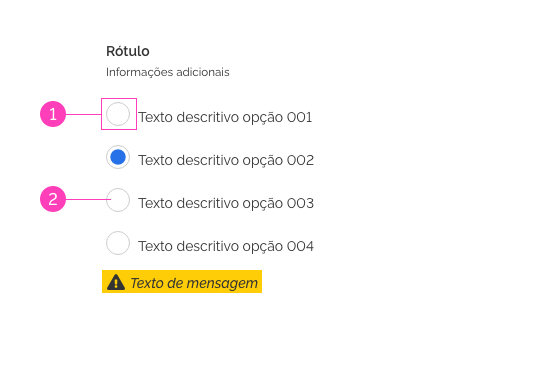
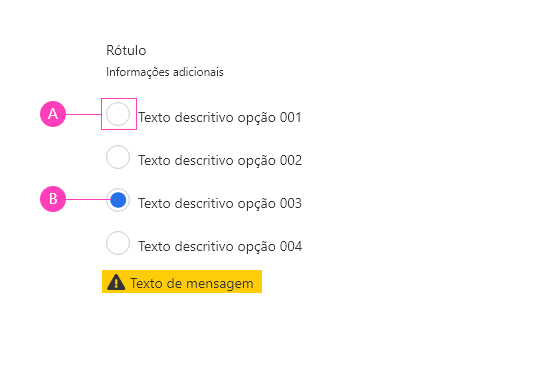
docs(radio): altera marcação de listas dentro de listas para letras
Foram alteradas as marcações de listas dentro de listas para letras

docs #320

diff --git a/docs/components/radio/radio-dsg.md b/docs/components/radio/radio-dsg.md
@@ -50,16 +50,16 @@ O *Radio* é constituído por:
 
 ### 1. Caixa de Opção (Obrigatório)
 
-A caixa de opção é composta pelo container (1) e pelo ícone de suporte visual interativo (2) que indicará o estado do componente como selecionado ou válido. Pode ser utilizado de forma independente como em células de tabelas, por exemplo.
+A caixa de opção é composta pelo container (A) e pelo ícone de suporte visual interativo (B) que indicará o estado do componente como selecionado ou válido. Pode ser utilizado de forma independente como em células de tabelas, por exemplo.
 
 ![Exemplo caixa opção](imagens/radio-caixa-opcao.png)
 *Caixa de opção do componente Radio*
 
-#### (1) Container
+#### A. Container
 
 -   O container do *Radio* parte de um círculo opaco que deverá conter o ícone de suporte interativo.
 
-#### (2) Ícone de suporte visual interativo
+#### B. Ícone de suporte visual interativo
 
 -   O Ícone de suporte visual é um elemento que ficará dentro da área do container e deve ser utilizado para identificar o estado do item radio como selecionado ou não selecionado a depender do seu estado.
 
@@ -67,16 +67,16 @@ A caixa de opção é composta pelo container (1) e pelo ícone de suporte visua
 
 ### 2. Item de opção (Obrigatório)
 
-É composto pela caixa de opção (1) à esquerda e o texto descritivo (2) sempre à sua direita. Este item deve ter uma largura mínima e máxima (ver design tokens).
+É composto pela caixa de opção (A) à esquerda e o texto descritivo (B) sempre à sua direita. Este item deve ter uma largura mínima e máxima (ver design tokens).
 
 ![Exemplo item opção](imagens/radio-item-opcao.png)
 *Item de opção do componente Radio*
 
-#### (1) Caixa de opção
+#### A. Caixa de opção
 
 -   O container do *Radio* no estado selecionado.
   
-#### (2) Texto descritivo
+#### B. Texto descritivo
 
 -   Para proporcionar um maior conforto visual ao usuário, o texto descritivo deve se posicionar sempre à direita do container respeitando o espaçamento lateral da caixa de opção.
 
@@ -90,12 +90,12 @@ A caixa de opção é composta pelo container (1) e pelo ícone de suporte visua
 
 ### 3. Cabeçalho de opções (Opcional)
 
-O cabeçalho de opções é composto pelo rótulo (1) e caso necessário, texto auxiliar (2). Deve ser o item mais ao topo da lista de opções. Não há restrição de largura ou altura para este item.
+O cabeçalho de opções é composto pelo rótulo (A) e caso necessário, texto auxiliar (B). Deve ser o item mais ao topo da lista de opções. Não há restrição de largura ou altura para este item.
 
 ![Exemplo Cabeçalho Opções](imagens/radio-cabecalho-opcoes.png)
 *Exemplo Cabeçalho de Opções*
 
-#### (1) Rótulo
+#### A. Rótulo
 
 -   Quando o componente é apresentado em uma lista e opções devem ser precedidos de um rótulo que descreva a informação que o usuário deve selecionar.
 
@@ -105,7 +105,7 @@ O cabeçalho de opções é composto pelo rótulo (1) e caso necessário, texto 
 
 -   Evitar escrever com todas as letras em maiúsculo (ALL CAPS) ou com todas as primeiras letras das palavras em maiúsculo (Camel Case).
 
-#### (2) Informações Adicionais
+#### B. Informações Adicionais
 
 -   É possível adicionar um texto auxiliar ao rótulo para facilitar o seu entendimento.
 
@@ -117,7 +117,7 @@ O cabeçalho de opções é composto pelo rótulo (1) e caso necessário, texto 
 
 ### 4. Lista de opções (Obrigatório)
 
-A lista de opções é o conjunto formado por itens de opções (1).
+A lista de opções é o conjunto formado por itens de opções (A).
 Quando esta lista possuir mais de um item é recomendado que seja precedida de um cabeçalho de opções.
 
 ![Exemplo lista de opção](imagens/radio-lista-opcoes.png)
